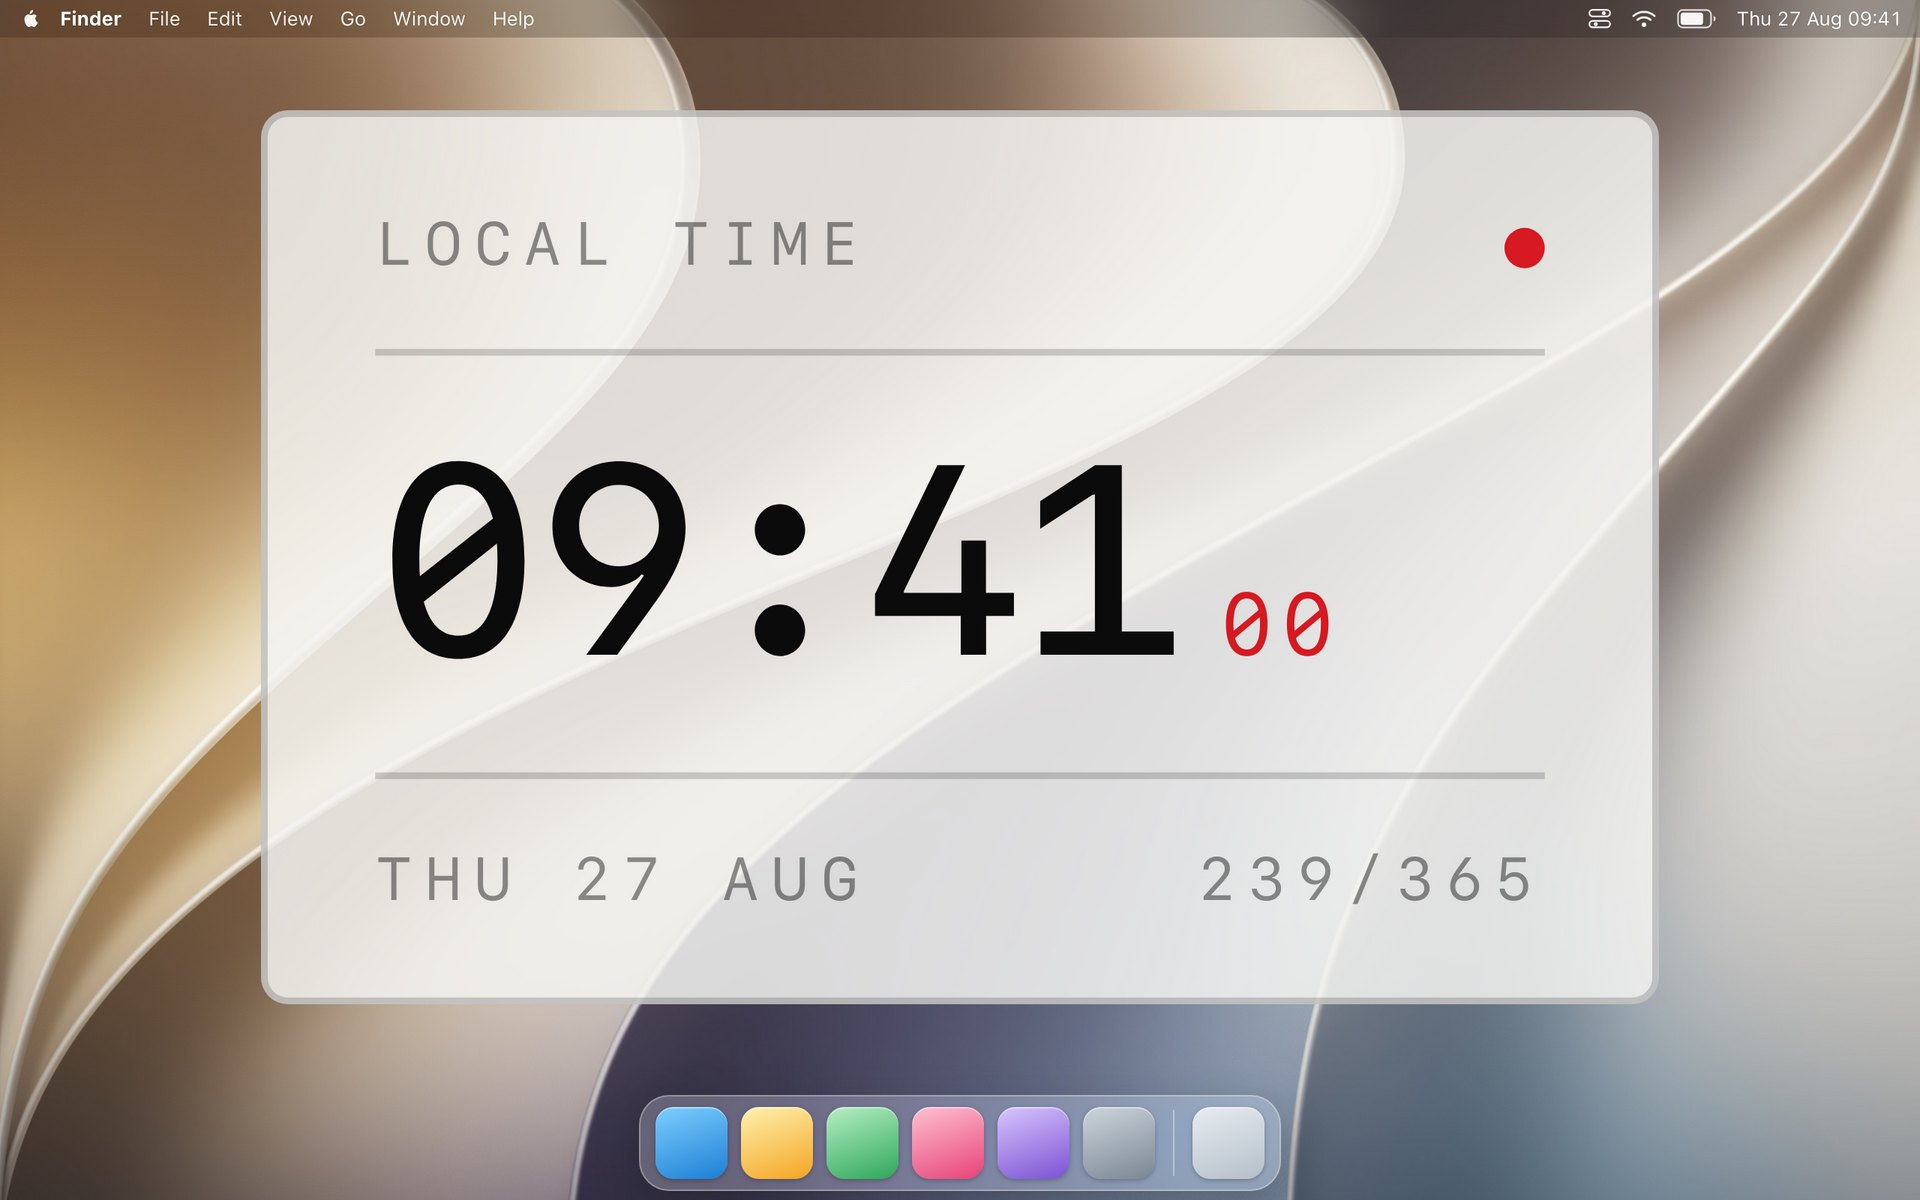
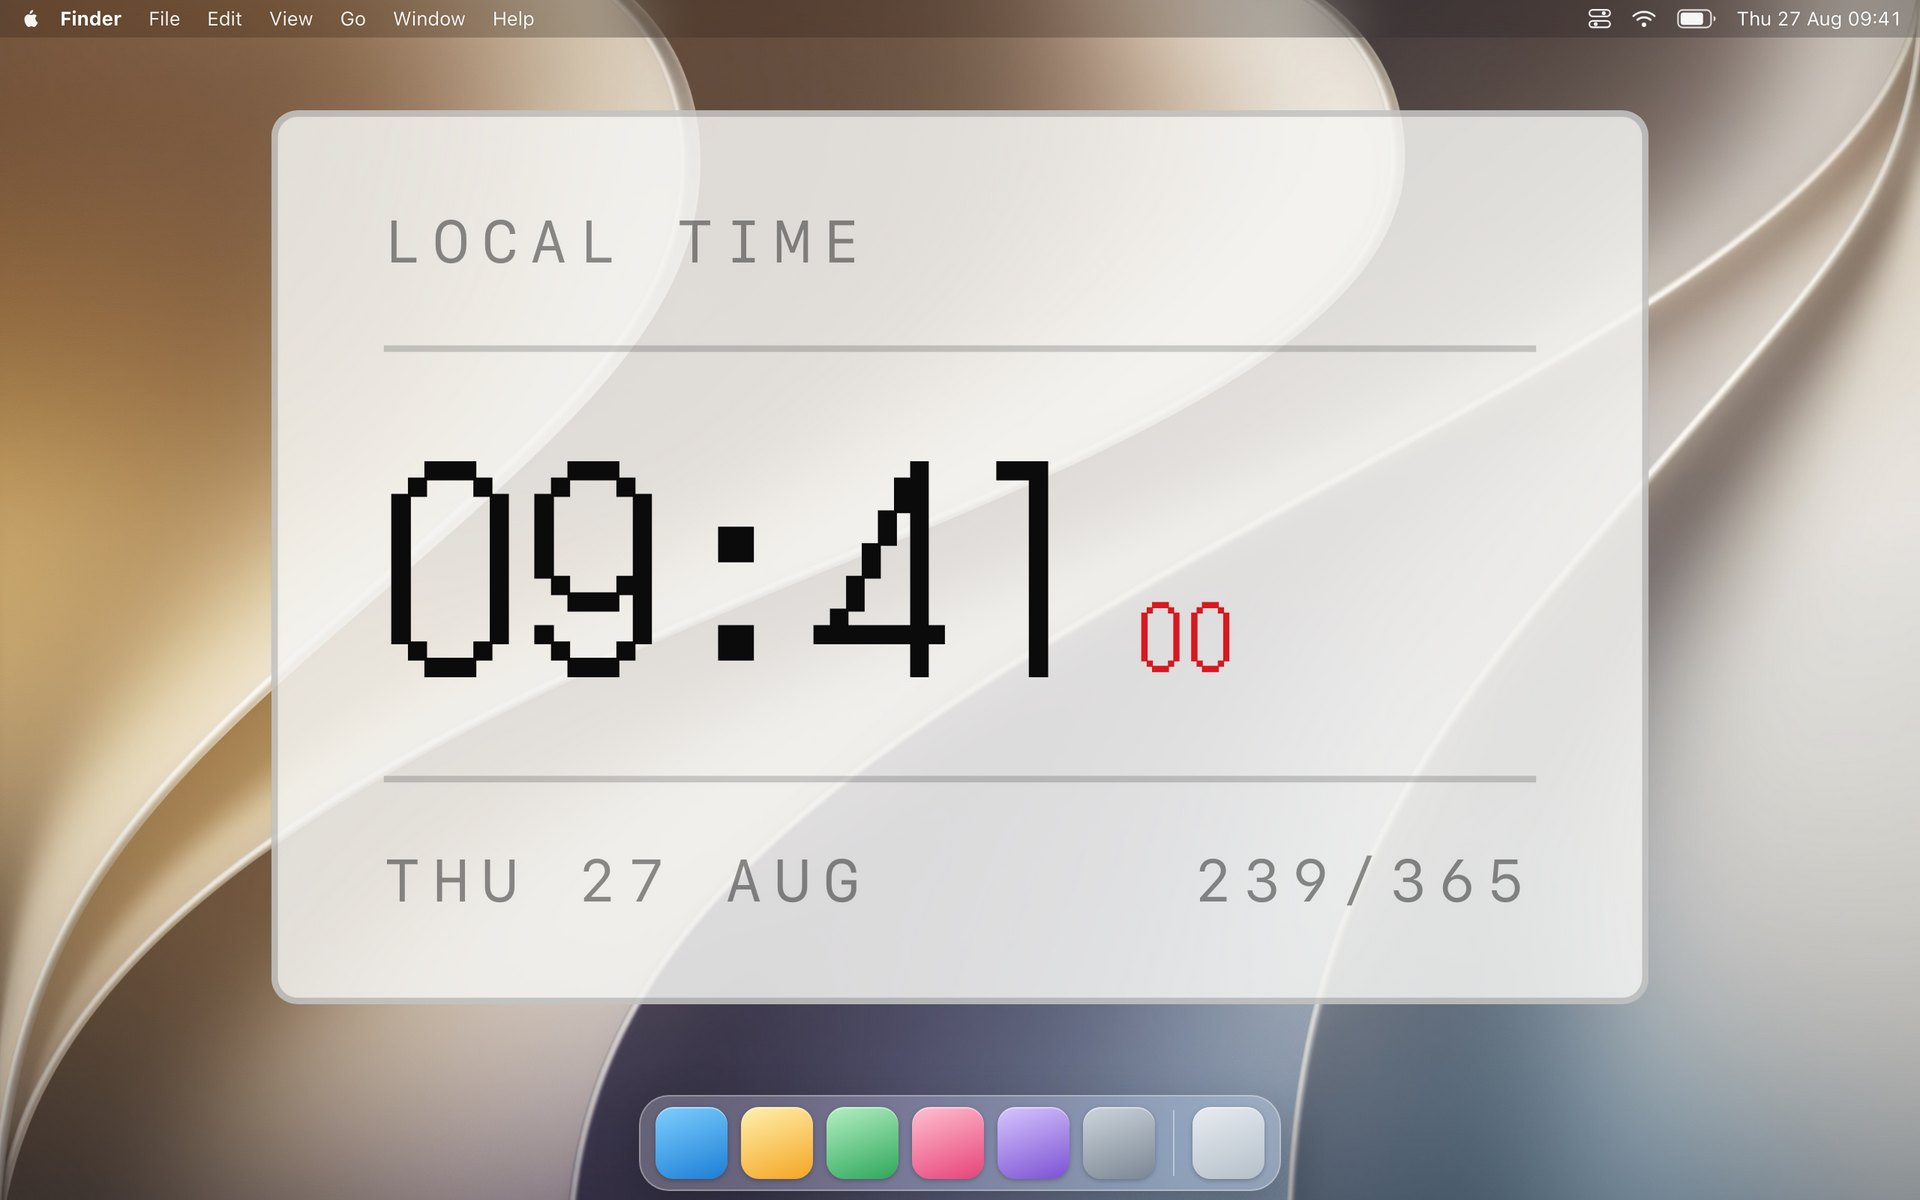
Give the clock two faces, and take the dot off
The dot at the top meant nothing. It was drawn whether the clock was reading the time
or reporting that it could not, so it said the same thing in both states, which is worse
than saying nothing at all.

In its place, something that does have a job. The numerals are set on a dot matrix now,
a readout of lit cells rather than drawn strokes, and there is a dial to switch to: sixty
marks, no numerals, an hour hand that moves through the hour, and one red second hand.
Face is a setting, so it is two clicks in the widget's settings rather than an edit.

The typeface holds the ten digits and a colon, 2KB against the 2MB of the full face, and
its license travels beside it.

diff --git a/widgets/clock/index.tsx b/widgets/clock/index.tsx
@@ -1,25 +1,38 @@
 /*
  * Clock
  *
- * Minimalist: monochrome with one red, monospace at every size, hairlines
- * instead of shadows, and labels that read like markings on a case rather than
- * words on a page.
+ * Minimalist: monochrome with one red, hairlines instead of shadows, and labels
+ * that read like markings on a case rather than words on a page. Two faces, since
+ * the same instrument can tell the time two ways.
  *
  * Copyright (c) 2026 Kevin Chen. MIT licensed.
  */
 
 import { styled } from "gailan";
 
-/* One command, three fields. The separator saves running `date` three times. */
+/* One command, four fields. The separator saves running `date` four times. */
 export const command = "date '+%H:%M|%S|%a %d %b|%j'";
 
-/* Seconds are shown, so this has to tick like one. */
+/* Seconds are shown on both faces, so this has to tick like one. */
 export const refreshFrequency = 1000;
 
 export const className = `
   left: 24px;
   top: 24px;
 `;
+
+/* The numerals are set in a dot matrix, which is where the industrial look comes
+   from: a readout built out of lit cells rather than drawn strokes. The file sits
+   beside this one and holds only the digits and the colon, so it costs 2KB. */
+const Face = () => (
+  <style>{`
+    @font-face {
+      font-family: "Gailan Dot Matrix";
+      src: url("dotmatrix.ttf") format("truetype");
+      font-display: block;
+    }
+  `}</style>
+);
 
 const Panel = styled("div")`
   --ink: #f4f4f2;
@@ -67,13 +80,6 @@ const Mark = styled("div")`
   color: var(--dim);
 `;
 
-const Dot = styled("div")`
-  width: 6px;
-  height: 6px;
-  border-radius: 50%;
-  background: var(--red);
-`;
-
 const Readout = styled("div")`
   display: flex;
   align-items: baseline;
@@ -81,19 +87,65 @@ const Readout = styled("div")`
 `;
 
 const Time = styled("div")`
+  font-family: "Gailan Dot Matrix", "SF Mono", ui-monospace, Menlo, monospace;
   font-size: 40px;
   line-height: 0.95;
-  letter-spacing: -0.02em;
-  font-weight: 500;
+  letter-spacing: 0.04em;
   /* digits keep their column so the panel never twitches */
   font-variant-numeric: tabular-nums;
 `;
 
 const Seconds = styled("div")`
+  font-family: "Gailan Dot Matrix", "SF Mono", ui-monospace, Menlo, monospace;
   font-size: 13px;
   letter-spacing: 0.08em;
   color: var(--red);
   font-variant-numeric: tabular-nums;
+`;
+
+/* ---------- the analog face ---------- */
+
+/* Sixty marks, the quarters longer, no numerals: a dial you read by where the
+   hands are rather than by looking anything up. */
+const Dial = styled("svg")`
+  display: block;
+  width: 168px;
+  height: 168px;
+  margin: 2px auto 0;
+
+  .tick {
+    stroke: var(--dim);
+    stroke-width: 1;
+  }
+
+  .tick-quarter {
+    stroke: var(--ink);
+    stroke-width: 2;
+  }
+
+  .hand-hour,
+  .hand-minute {
+    stroke: var(--ink);
+    stroke-linecap: round;
+  }
+
+  .hand-hour {
+    stroke-width: 4;
+  }
+
+  .hand-minute {
+    stroke-width: 2.5;
+  }
+
+  .hand-second {
+    stroke: var(--red);
+    stroke-width: 1;
+    stroke-linecap: round;
+  }
+
+  .cap {
+    fill: var(--ink);
+  }
 `;
 
 const Footer = styled("div")`
@@ -109,15 +161,91 @@ const Footer = styled("div")`
   color: var(--dim);
 `;
 
-type State = { output: string; error?: string };
+const CENTRE = 50;
+const RADIUS = 46;
 
-export const render = ({ output, error }: State) => {
+function pointAt(angle: number, length: number) {
+  // twelve o'clock is up, and svg's y counts downward
+  const radians = ((angle - 90) * Math.PI) / 180;
+  return {
+    x: CENTRE + Math.cos(radians) * length,
+    y: CENTRE + Math.sin(radians) * length,
+  };
+}
+
+function Hands({
+  hours,
+  minutes,
+  seconds,
+}: {
+  hours: number;
+  minutes: number;
+  seconds: number;
+}) {
+  // the hour hand moves through the hour rather than jumping at the top of it
+  const hour = pointAt(((hours % 12) + minutes / 60) * 30, 24);
+  const minute = pointAt((minutes + seconds / 60) * 6, 34);
+  const second = pointAt(seconds * 6, 38);
+
+  return (
+    <>
+      <line
+        className="hand-hour"
+        x1={CENTRE}
+        y1={CENTRE}
+        x2={hour.x}
+        y2={hour.y}
+      />
+      <line
+        className="hand-minute"
+        x1={CENTRE}
+        y1={CENTRE}
+        x2={minute.x}
+        y2={minute.y}
+      />
+      <line
+        className="hand-second"
+        x1={CENTRE}
+        y1={CENTRE}
+        x2={second.x}
+        y2={second.y}
+      />
+      <circle className="cap" cx={CENTRE} cy={CENTRE} r={2.5} />
+    </>
+  );
+}
+
+function Ticks() {
+  return (
+    <>
+      {Array.from({ length: 60 }, (_, i) => {
+        const quarter = i % 15 === 0;
+        const outer = pointAt(i * 6, RADIUS);
+        const inner = pointAt(i * 6, RADIUS - (quarter ? 7 : i % 5 === 0 ? 5 : 2.5));
+        return (
+          <line
+            key={i}
+            className={quarter ? "tick tick-quarter" : "tick"}
+            x1={outer.x}
+            y1={outer.y}
+            x2={inner.x}
+            y2={inner.y}
+          />
+        );
+      })}
+    </>
+  );
+}
+
+type Settings = { face?: string };
+type State = { output: string; error?: string; settings?: Settings };
+
+export const render = ({ output, error, settings }: State) => {
   if (error) {
     return (
       <Panel>
         <Marks>
           <Mark>clock</Mark>
-          <Dot />
         </Marks>
         <Mark>unavailable</Mark>
       </Panel>
@@ -126,24 +254,36 @@ export const render = ({ output, error }: State) => {
 
   const [time, seconds, date, dayOfYear] = output.trim().split("|");
   const day = Number(dayOfYear);
+  const analog = settings?.face === "analog";
+  const [hours, minutes] = (time || "").split(":").map(Number);
 
   return (
     <Panel data-gailan-desktop-glass={4}>
+      <Face />
+
       <Marks>
         <Mark>local time</Mark>
-        <Dot />
       </Marks>
 
-      <Readout>
-        <Time>{time}</Time>
-        <Seconds>{seconds}</Seconds>
-      </Readout>
+      {analog ? (
+        <Dial viewBox="0 0 100 100" role="img" aria-label={`${time}:${seconds}`}>
+          <Ticks />
+          <Hands
+            hours={hours || 0}
+            minutes={minutes || 0}
+            seconds={Number(seconds) || 0}
+          />
+        </Dial>
+      ) : (
+        <Readout>
+          <Time>{time}</Time>
+          <Seconds>{seconds}</Seconds>
+        </Readout>
+      )}
 
       <Footer>
         <span>{date}</span>
-        <span>
-          {String(day).padStart(3, "0")}/365
-        </span>
+        <span>{String(day).padStart(3, "0")}/365</span>
       </Footer>
     </Panel>
   );

diff --git a/scripts/screenshot.js b/scripts/screenshot.js
@@ -368,6 +368,7 @@ function electron() {
 
 function report(measured) {
   const [width, height] = measured.desktop;
+  (measured.fonts || []).forEach((font) => console.log(`  font: ${font}`));
   (measured.animations || []).forEach((animation) =>
     console.log(`  moving: ${animation}`)
   );
@@ -377,6 +378,7 @@ function report(measured) {
     console.log(
       `  ${widget.width}x${widget.height} at ${widget.x},${widget.y}` +
         ` (${across}% across, ${down}% down)` +
+        (widget.lines ? ` ${widget.lines} drawn lines` : '') +
         (widget.text ? ` "${widget.text}"` : '')
     );
   });
@@ -411,15 +413,22 @@ function capture(binary, url, done) {
             document.getElementById('desktop').clientWidth,
             document.getElementById('desktop').clientHeight,
           ],
+          // a widget may ship a typeface, and a fallback looks fine until you
+          // compare it to the real thing
+          fonts: [...document.fonts].map((f) => f.family + ' ' + f.status),
           // anything set to move, so a widget that should beat can be seen to
           animations: [...document.querySelectorAll('.slot *')]
             .map((el) => getComputedStyle(el))
             .filter((style) => style.animationName !== 'none')
             .map((style) => style.animationName + ' ' + style.animationDuration),
           widgets: [...document.querySelectorAll('.slot')].map((slot) => {
-            const box = (slot.firstElementChild || slot).getBoundingClientRect();
+            // the slot takes the widget's size, so it is the honest thing to
+            // measure: a widget may render a <style> first, which has none
+            const box = slot.getBoundingClientRect();
             return {
-              text: (slot.textContent || '').trim().slice(0, 28),
+              // innerText, so a font-face rule is not mistaken for the readout
+              text: (slot.innerText || '').replace(/\s+/g, ' ').trim().slice(0, 30),
+              lines: slot.querySelectorAll('svg line').length,
               x: Math.round(box.x), y: Math.round(box.y),
               width: Math.round(box.width), height: Math.round(box.height),
             };

diff --git a/template/screenshot/desktop.html b/template/screenshot/desktop.html
@@ -323,8 +323,7 @@
           let top = BAR + INSET;
 
           slots.forEach((slot) => {
-            const drawn = slot.firstElementChild || slot;
-            const box = drawn.getBoundingClientRect();
+            const box = slot.getBoundingClientRect();
 
             slot.style.cssText =
               "position: absolute;" +
@@ -350,9 +349,9 @@
       if (fill && slots.length === 1) {
         setTimeout(() => {
           const slot = slots[0];
-          // the widget itself, not the slot holding it
-          const drawn = slot.firstElementChild || slot;
-          const box = drawn.getBoundingClientRect();
+          // the slot is fit-content, so its box is the widget's box, whatever the
+          // widget chose to render first
+          const box = slot.getBoundingClientRect();
           if (!box.width || !box.height) return;
 
           const room = {

diff --git a/widgets/clock/README.md b/widgets/clock/README.md
@@ -1,20 +1,19 @@
 # Clock
 
-The time to the minute, the date, and the day of the year.
+The time, the date, and how far through the year you are.
 
-## What it runs
+Two faces, chosen in the widget's settings:
 
-    date '+%H:%M|%a %d %b|%j'
+- **Digital** shows the numerals on a dot matrix, which is where the industrial look
+  comes from: a readout built out of lit cells rather than drawn strokes. Seconds sit
+  beside the time in red.
+- **Analog** shows hands on a dial with sixty marks and no numerals, the quarters
+  longer than the rest. The hour hand moves through the hour rather than jumping at the
+  top of it, and the second hand is the one red thing on it.
 
-`date` is part of macOS, so there is nothing to install. Nothing is fetched over
-the network.
+Both tick every second, because both show seconds.
 
-## Settings
-
-Move it by editing `className` in `index.tsx`. `refreshFrequency` is ten seconds,
-which is enough for a clock that only shows minutes; lower it and you are asking
-your Mac to redraw for nothing.
-
-## License
-
-MIT, © 2026 Kevin Chen.
+The dot matrix numerals are [DotGothic16](https://github.com/fontworks-fonts/DotGothic16)
+under the SIL Open Font License, which is in `dotmatrix-OFL.txt`. The file beside this
+one holds only the digits and the colon, so it costs 2KB rather than the 2MB of the full
+face.
